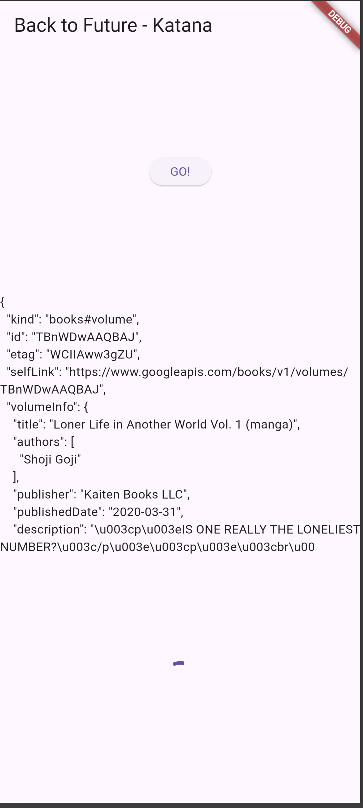
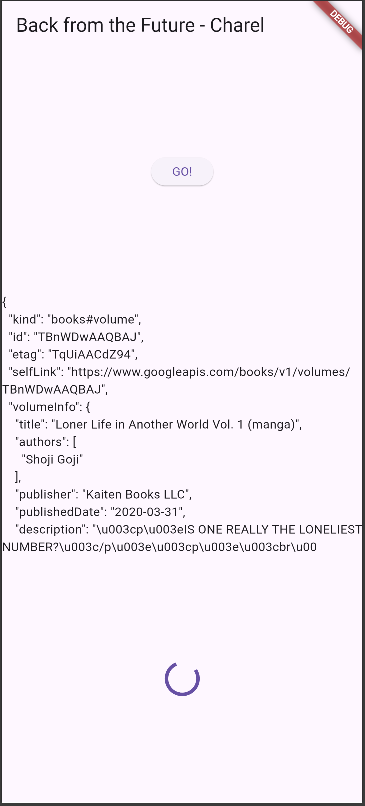
com prak 2

diff --git a/week11/books/lib/main.dart b/week11/books/lib/main.dart
@@ -32,6 +32,7 @@ class FuturePage extends StatefulWidget {
 
 class _FuturePageState extends State<FuturePage> {
   String result = '';
+  late Completer completer;
 
   Future<Response> getData() async {
     const authority = 'www.googleapis.com';
@@ -40,11 +41,47 @@ class _FuturePageState extends State<FuturePage> {
     return http.get(url);
   }
 
+  Future<int> returnOneAsync() async {
+    await Future.delayed(const Duration(seconds: 3));
+    return 1;
+  }
+
+  Future<int> returnTwoAsync() async {
+    await Future.delayed(const Duration(seconds: 3));
+    return 2;
+  }
+
+  Future<int> returnThreeAsync() async {
+    await Future.delayed(const Duration(seconds: 3));
+    return 3;
+  }
+
+  Future count() async {
+    int total = 0;
+    total = await returnOneAsync();
+    total += await returnTwoAsync();
+    total += await returnThreeAsync();
+    setState(() {
+      result = total.toString();
+    });
+  }
+
+  Future getNumber() {
+    completer = Completer<int>();
+    calculate();
+    return completer.future;
+  }
+
+  Future calculate() async {
+    await Future.delayed(const Duration(seconds: 5));
+    completer.complete(42);
+  }
+
   @override
   Widget build(BuildContext context) {
     return Scaffold(
       appBar: AppBar(
-        title: const Text('Back to Future - Katana'),
+        title: const Text('Back from the Future - Charel'),
       ),
       body: Center(
         child: Column(
@@ -53,14 +90,20 @@ class _FuturePageState extends State<FuturePage> {
             ElevatedButton(
               child: const Text('GO!'),
               onPressed: () {
-                setState(() {});
-                getData().then((value) {
-                  result = value.body.toString().substring(0, 450);
-                  setState(() {});
-                }).catchError((_) {
-                  result = 'An error occurred';
-                  setState(() {});
+                getNumber().then((value) {
+                  setState(() {
+                    result = value.toString();
+                  });
                 });
+                // count();
+                // setState(() {});
+                // getData().then((value) {
+                //   result = value.body.toString().substring(0, 450);
+                //   setState(() {});
+                // }).catchError((_) {
+                //   result = 'An error occurred';
+                //   setState(() {});
+                // });
               },
             ),
             const Spacer(),

diff --git a/week11/books/README.md b/week11/books/README.md
@@ -111,3 +111,168 @@ ElevatedButton(
 
 ![](./screenshots/image1.png)
 
+
+## Praktikum 2: Menggunakan await/async untuk menghindari callbacks
+
+### Langkah 1: Buka file main.dart
+Tambahkan tiga method berisi kode async di dalam class `_FuturePageState`:
+
+```dart
+Future<int> returnOneAsync() async {
+  await Future.delayed(const Duration(seconds: 3));
+  return 1;
+}
+
+Future<int> returnTwoAsync() async {
+  await Future.delayed(const Duration(seconds: 3));
+  return 2;
+}
+
+Future<int> returnThreeAsync() async {
+  await Future.delayed(const Duration(seconds: 3));
+  return 3;
+}
+```
+
+### Langkah 2: Tambah method count()
+Tambahkan method `count()` untuk menjumlahkan hasil dari ketiga method async:
+
+```dart
+Future count() async {
+  int total = 0;
+  total = await returnOneAsync();
+  total += await returnTwoAsync();
+  total += await returnThreeAsync();
+  setState(() {
+    result = total.toString();
+  });
+}
+```
+
+### Langkah 3: Panggil count()
+Update kode `onPressed()` pada ElevatedButton:
+
+```dart
+ElevatedButton(
+  child: const Text('GO!'),
+  onPressed: () {
+    count();
+  },
+),
+```
+
+### Langkah 4: Run
+Aplikasi akan menampilkan angka 6 setelah delay 9 detik.
+
+#### Soal 4
+
+**Penjelasan Maksud Kode Langkah 1 dan 2:**
+
+**Langkah 1 - Tiga Method Async:**
+- `returnOneAsync()`, `returnTwoAsync()`, dan `returnThreeAsync()` adalah method asynchronous yang mengembalikan nilai `Future<int>`
+- Setiap method menggunakan `await Future.delayed(const Duration(seconds: 3))` untuk mensimulasikan operasi yang membutuhkan waktu 3 detik (misalnya: mengambil data dari server)
+- Keyword `async` menandai bahwa method ini adalah asynchronous dan dapat menggunakan `await` di dalamnya
+- Setelah delay 3 detik, masing-masing method mengembalikan nilai integer (1, 2, dan 3)
+
+**Langkah 2 - Method count():**
+- Method `count()` adalah method async yang menunggu hasil dari ketiga method di atas secara berurutan
+- Keyword `await` memaksa eksekusi untuk menunggu sampai method selesai sebelum melanjutkan ke baris berikutnya
+- Proses berjalan berurutan:
+  1. Tunggu 3 detik → dapat nilai 1
+  2. Tunggu 3 detik lagi → dapat nilai 2, total = 1 + 2 = 3
+  3. Tunggu 3 detik lagi → dapat nilai 3, total = 3 + 3 = 6
+- Total waktu: 3 + 3 + 3 = 9 detik
+- Setelah semua selesai, `setState()` dipanggil untuk memperbarui UI dengan hasil total (6)
+
+**Perbedaan dengan Praktikum 1:**
+- Praktikum 1 menggunakan `.then()` dan callback (lebih kompleks dan sulit dibaca)
+- Praktikum 2 menggunakan `async/await` (lebih clean, mudah dibaca seperti kode synchronous)
+
+**Hasil Praktikum:**
+![](./screenshots/image2.png)
+
+---
+
+## Praktikum 3: Menggunakan Completer di Future
+
+### Langkah 1: Buka main.dart
+Pastikan telah impor package async berikut:
+
+```dart
+import 'package:async/async.dart';
+```
+
+**Catatan:** Untuk praktikum ini, `Completer` sudah tersedia di `dart:async` yang sudah diimpor sebelumnya, jadi tidak perlu menambahkan package `async` secara terpisah.
+
+### Langkah 2: Tambahkan variabel dan method
+Tambahkan variabel late dan method di class `_FuturePageState`:
+
+```dart
+late Completer completer;
+
+Future getNumber() {
+  completer = Completer<int>();
+  calculate();
+  return completer.future;
+}
+
+Future calculate() async {
+  await Future.delayed(const Duration(seconds: 5));
+  completer.complete(42);
+}
+```
+
+### Langkah 3: Ganti isi kode onPressed()
+Tambahkan kode berikut pada fungsi `onPressed()`:
+
+```dart
+ElevatedButton(
+  child: const Text('GO!'),
+  onPressed: () {
+    getNumber().then((value) {
+      setState(() {
+        result = value.toString();
+      });
+    });
+  },
+),
+```
+
+### Langkah 4: Run
+Aplikasi akan menampilkan angka 42 setelah delay 5 detik.
+
+#### Soal 5
+
+**Penjelasan Maksud Kode Langkah 2:**
+
+**1. Variabel `late Completer completer;`:**
+- Mendeklarasikan variabel `completer` dengan tipe `Completer` menggunakan keyword `late`
+- `late` berarti variabel ini akan diinisialisasi nanti (bukan saat deklarasi), tetapi pasti akan diinisialisasi sebelum digunakan
+- `Completer` adalah class yang digunakan untuk membuat dan mengontrol Future secara manual
+
+**2. Method `getNumber()`:**
+- Method ini membuat instance baru dari `Completer<int>()` yang akan menghasilkan Future dengan nilai integer
+- `calculate()` dipanggil untuk memulai proses asynchronous
+- `return completer.future` mengembalikan Future yang akan selesai nanti ketika `completer.complete()` dipanggil
+- Method ini tidak menggunakan `async` karena langsung mengembalikan Future dari completer
+
+**3. Method `calculate()`:**
+- Method async yang mensimulasikan operasi yang memakan waktu 5 detik dengan `Future.delayed()`
+- Setelah 5 detik, `completer.complete(42)` dipanggil untuk menyelesaikan Future dengan nilai 42
+- Ketika `complete()` dipanggil, semua listener yang menunggu Future tersebut (seperti `.then()` di `onPressed()`) akan menerima nilai 42
+
+**Cara Kerja Completer:**
+1. `getNumber()` membuat Completer dan mengembalikan Future-nya
+2. `calculate()` berjalan di background, menunggu 5 detik
+3. Setelah 5 detik, `completer.complete(42)` "menyelesaikan" Future dengan nilai 42
+4. `.then()` di `onPressed()` menerima nilai 42 dan mengupdate UI
+
+**Keuntungan Completer:**
+- Memberikan kontrol penuh kapan dan bagaimana Future diselesaikan
+- Berguna untuk operasi asynchronous yang kompleks atau event-based
+- Memisahkan logika pembuatan Future dengan logika penyelesaiannya
+
+**Hasil Praktikum:**
+
+![](./screenshots/image3.png)
+
